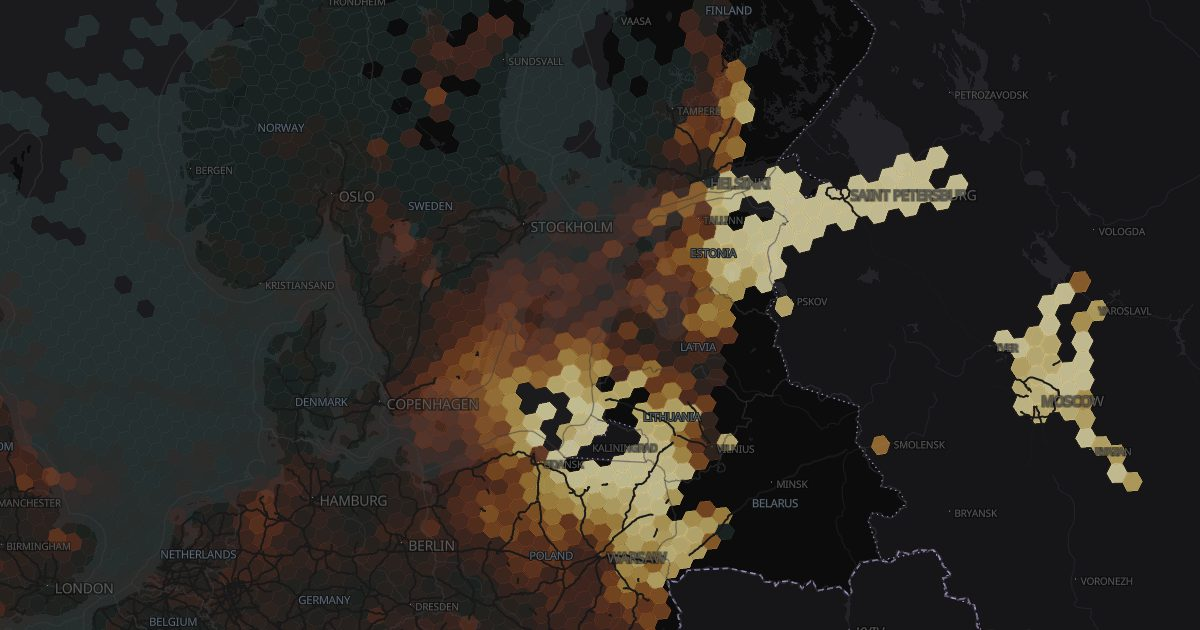
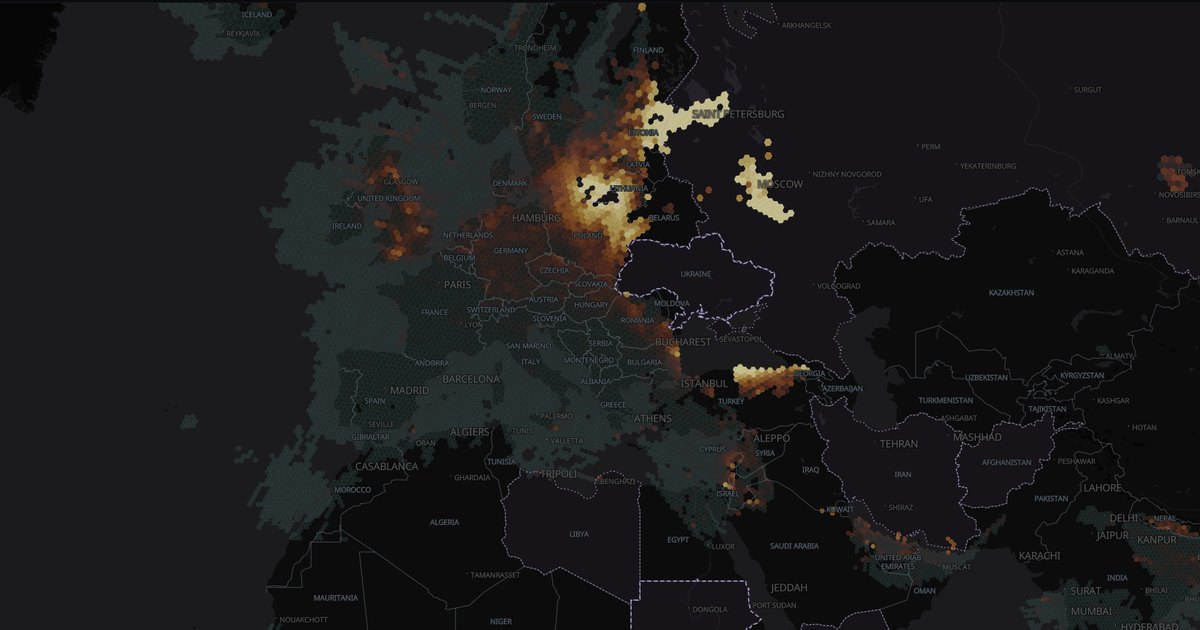
map: labelled pill tabs for all panel toggles; sharper loader poster + OG
- All four corner collapse toggles (layer/legend/regions/readout) now read as
  labelled pill tabs matching the bottom timeline tag, via a data-label per
  button; folded panels become a standalone '> label' chip.
- New high-res loader-poster.jpg (1600px) behind the acquiring-signal sweep so
  the loading screen is sharper; OG card refreshed from the same source (1200x630).

diff --git a/site/css/style.css b/site/css/style.css
@@ -372,27 +372,33 @@ header.topbar {
    bare glyph was almost invisible when a box was folded). */
 /* Collapse toggles read as small TABS attached to the panel's top-right corner,
    not floating buttons: flush to the edge, flat, sharing the panel's border. */
-.collapse-btn { position: absolute; top: 0; right: 0; z-index: 5;
-  padding: 2px 9px; display: inline-block; line-height: 1.4;
+/* every collapse toggle is a LABELLED pill tab (arrow + the panel's name),
+   the same language as the "timeline" tag at the bottom. The label comes from
+   each button's data-label attribute so the four corner panels read
+   "layer / legend / regions / readout" just like "timeline". */
+.collapse-btn { position: absolute; top: 0; right: 0; z-index: 6;
+  padding: 3px 11px; display: inline-flex; align-items: baseline; gap: 5px;
   background: var(--bg-panel2); border: 1px solid var(--line-2);
   border-top-color: transparent; border-right-color: transparent;
-  border-radius: 0 var(--radius) 0 8px;
+  border-radius: 0 var(--radius) 0 9px;
   color: var(--ink-dim); cursor: pointer; font-family: var(--mono); font-size: 11px;
+  letter-spacing: .07em; line-height: 1.4;
   transition: color .15s, border-color .15s, background .15s; }
 .collapse-btn:hover { color: var(--phosphor); border-left-color: var(--phosphor);
   border-bottom-color: var(--phosphor); }
-.collapse-btn::before { content: "\25BE"; }               /* ▾ expanded: click to fold */
+.collapse-btn::before { content: "\25BE"; font-size: 10px; }      /* ▾ expanded: click to fold */
+.collapse-btn::after { content: attr(data-label); }
 .collapsible.collapsed .collapse-btn::before { content: "\25B8"; }  /* ▸ folded: click to open */
-.readout-collapse { right: auto; left: 0; border-radius: var(--radius) 0 8px 0;
+.readout-collapse { right: auto; left: 0; border-radius: var(--radius) 0 9px 0;
   border-left-color: transparent; border-right-color: var(--line-2); }
-.collapsible > h3 { padding-right: 28px; }
+.collapsible > h3 { padding-right: 74px; }
 /* folded: the box becomes just the tab — an obvious, findable label chip */
 .collapsible.collapsed { min-width: 0 !important; width: auto !important;
   max-height: none !important; padding: 0 !important; border: none !important;
   background: none !important; backdrop-filter: none !important; }
 .collapsible.collapsed > *:not(.collapse-btn) { display: none !important; }
-.collapsible.collapsed .collapse-btn { position: static; padding: 4px 12px;
-  border: 1px solid var(--line-2); border-radius: var(--radius); background: var(--bg-panel); }
+.collapsible.collapsed .collapse-btn { position: static; padding: 4px 13px;
+  border: 1px solid var(--line-2); border-radius: 7px; background: var(--bg-panel); }
 
 /* the timeline toggle is a centered tab at the bottom-middle of the page (the
    scrubber defaults folded, so this tab is how a reader reveals the timeline). */
@@ -594,7 +600,7 @@ input.slider::-moz-range-thumb { width:14px; height:14px; border-radius:50%;
 .loader::before { content:""; position:absolute; inset:0; z-index:0;
   background:
     linear-gradient(rgba(10,12,15,0.30), rgba(10,12,15,0.55)),
-    url("../assets/og-image.jpg") center / cover no-repeat;
+    url("../assets/loader-poster.jpg") center / cover no-repeat;
 }
 .loader.hide { opacity:0; pointer-events:none; }
 .loader .core { position:relative; z-index:1; text-align:center; }

diff --git a/site/index.html b/site/index.html
@@ -62,7 +62,7 @@
     <!-- overlays -->
     <div class="map-overlay controls">
       <div class="panel collapsible" id="controlsPanel">
-        <button class="collapse-btn" data-collapse aria-label="collapse layer panel"></button>
+        <button class="collapse-btn" data-collapse data-label="layer" aria-label="collapse layer panel"></button>
         <h3>Layer</h3>
         <div class="seg" id="modeToggle" role="group" aria-label="color mode">
           <button data-mode="raw" aria-pressed="true">Degraded %</button>
@@ -85,7 +85,7 @@
 
     <div class="map-overlay right-stack">
       <div class="legend panel collapsible" id="legend">
-        <button class="collapse-btn" data-collapse aria-label="collapse legend"></button>
+        <button class="collapse-btn" data-collapse data-label="legend" aria-label="collapse legend"></button>
         <h3 id="legendTitle">Aircraft with degraded GPS</h3>
         <div class="ramp raw" id="legendRamp"></div>
         <div class="ramp-labels"><span id="legLo">0%</span><span id="legHi">100%</span></div>
@@ -99,14 +99,14 @@
       </div>
 
       <div class="region-box panel collapsible" id="regionBox">
-        <button class="collapse-btn" data-collapse aria-label="collapse regions"></button>
+        <button class="collapse-btn" data-collapse data-label="regions" aria-label="collapse regions"></button>
         <h3>Watch regions</h3>
         <div class="region-list" id="regionChips"></div>
       </div>
     </div>
 
     <div class="map-overlay readout panel empty collapsible" id="readout">
-      <button class="collapse-btn readout-collapse" data-collapse aria-label="collapse readout"></button>
+      <button class="collapse-btn readout-collapse" data-collapse data-label="readout" aria-label="collapse readout"></button>
       <button class="ro-close" id="roClose" aria-label="unpin" hidden>×</button>
       <div class="big" id="roVal">—</div>
       <div class="row"><span id="roAircraft">hover a cell</span>